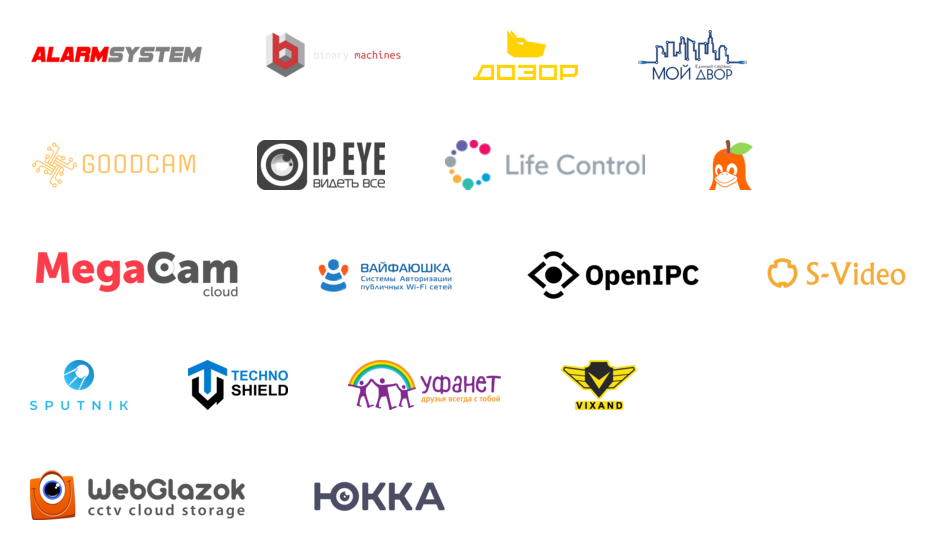
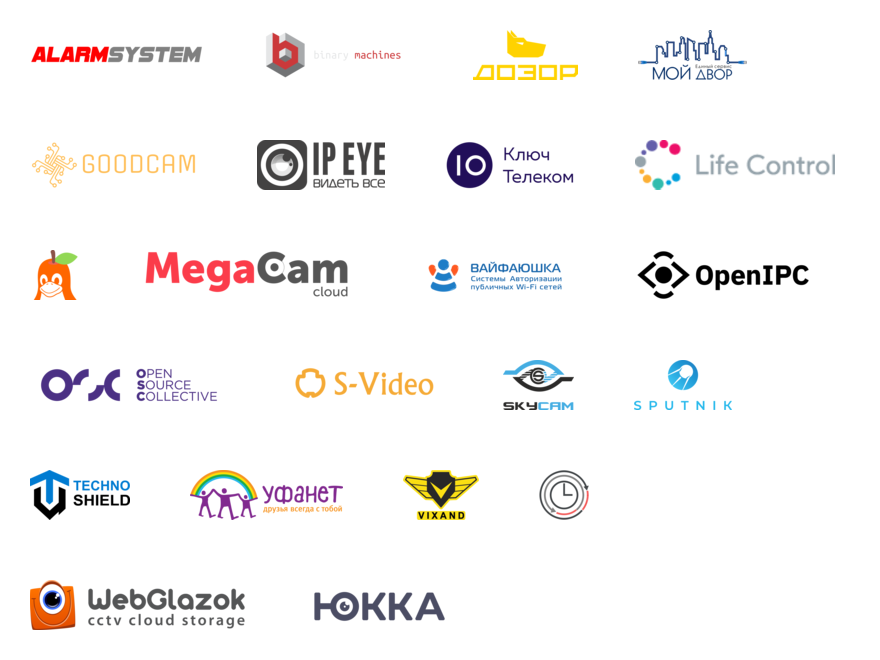
Update page

diff --git a/docs/index.md b/docs/index.md
@@ -69,8 +69,9 @@ We would be grateful for the feedback and suggestions.
 
 |   |   |   |   |
 |:-:|:-:|:-:|:-:|
-| | [![ALARMSYSTEM logo](https://openipc.github.io/images/partner_alarmsystem_mini.png "ALARMSYSTEM logo")](https://alarmsystem-cctv.ru/product-category/cctv-products/cctv-cameras/ip-cameras-cctv/?swoof=1&product_brands=openipc&really_curr_tax=189-product_cat) | [![BINARY_MACHINES logo](https://openipc.github.io/images/partner_binary-machines_mini.png "BINARY_MACHINES logo")](http://bmachines.ru) | [![DOZOR logo](https://openipc.github.io/images/partner_dozor_mini.png "DOZOR logo")](https://dozor-smart.ru) |
+| [![OSC logo](https://openipc.github.io/images/partner_osc_mini.png "OSC logo")](https://www.oscollective.org) | [![ALARMSYSTEM logo](https://openipc.github.io/images/partner_alarmsystem_mini.png "ALARMSYSTEM logo")](https://alarmsystem-cctv.ru/product-category/cctv-products/cctv-cameras/ip-cameras-cctv/?swoof=1&product_brands=openipc&really_curr_tax=189-product_cat) | [![SKYCAM logo](https://openipc.github.io/images/partner_skycam_mini.png "SKYCAM logo")](https://skycam.cam) | [![BINARY_MACHINES logo](https://openipc.github.io/images/partner_binary-machines_mini.png "BINARY_MACHINES logo")](http://bmachines.ru) | 
 | [![DVOR24 logo](https://openipc.github.io/images/partner_dvor24_mini.png "DVOR24 logo")](https://dvor24.ru) | [![GOODCAM logo](https://openipc.github.io/images/partner_goodcam_mini.png "GOODCAM logo")](https://www.goodcam.io) | [![IPEYE logo](https://openipc.github.io/images/partner_ipeye_mini.png "IPEYE logo")](https://ipeye.ru) | [![LIFECONTROL logo](https://openipc.github.io/images/partner_lifecontrol_mini.png "LIFECONTROL logo")](https://lifecontrol.ru/) |
 | [![MEGACAM logo](https://openipc.github.io/images/partner_megacam_mini.png "MEGACAM logo")](http://megacam.kz) | [![MYWIFI-CC logo](https://openipc.github.io/images/partner_mywifi-cc_mini.png "MYWIFI-CC logo")](https://xn--80aaaf0bh2e7a5c.xn--p1ai/) | [![OPENIPC logo](https://openipc.github.io/images/partner_openipc_mini.png "OPENIPC logo")](https://openipc.org) | [![SPUTNIK logo](https://openipc.github.io/images/partner_sputnik_mini.png "SPUTNIK logo")](https://sputnik.systems) |
 | [![TECHNO_SHIELD logo](https://openipc.github.io/images/partner_techno-shield_mini.png "TECHNO_SCHIELD logo")](https://msvoko.ru) | [![VIXAND logo](https://openipc.github.io/images/partner_vixand_mini.png "VIXAND logo")](http://vixand.ru) | [![WEBGLAZOK logo](https://openipc.github.io/images/partner_webglazok_mini.png "WEBGLAZOK logo")](https://webglazok.com) | [![YUCCA logo](https://openipc.github.io/images/partner_yucca_mini.png "YUCCA logo")](https://yucca.app/en) |
-| [![S-VIDEO logo](https://openipc.github.io/images/partner_s-video_mini.png "S-Video logo")](https://www.cctvsp.ru/cctv/openipc) | [![LINUXCHENXING logo](https://openipc.github.io/images/partner_linuxchenxing_mini.png "LINUXCHENXING logo")](https://linux-chenxing.org)  | [![UFANET logo](https://openipc.github.io/images/partner_ufanet_mini.png "UFANET logo")](https://www.ufanet.ru/) |   |
+| [![S-VIDEO logo](https://openipc.github.io/images/partner_s-video_mini.png "S-Video logo")](https://www.cctvsp.ru/cctv/openipc) | [![LINUXCHENXING logo](https://openipc.github.io/images/partner_linuxchenxing_mini.png "LINUXCHENXING logo")](https://linux-chenxing.org)  | [![UFANET logo](https://openipc.github.io/images/partner_ufanet_mini.png "UFANET logo")](https://www.ufanet.ru/) | [![VTL logo](https://openipc.github.io/images/partner_vtl_mini.png "VTL logo")](https://vtl.su/) |
+| [![DOZOR logo](https://openipc.github.io/images/partner_dozor_mini.png "DOZOR logo")](https://dozor-smart.ru) | [![KEYTELECOM logo](https://openipc.github.io/images/partner_keytelecom_mini.png "KEYTELECOM logo")](https://keytele.com) | | |
